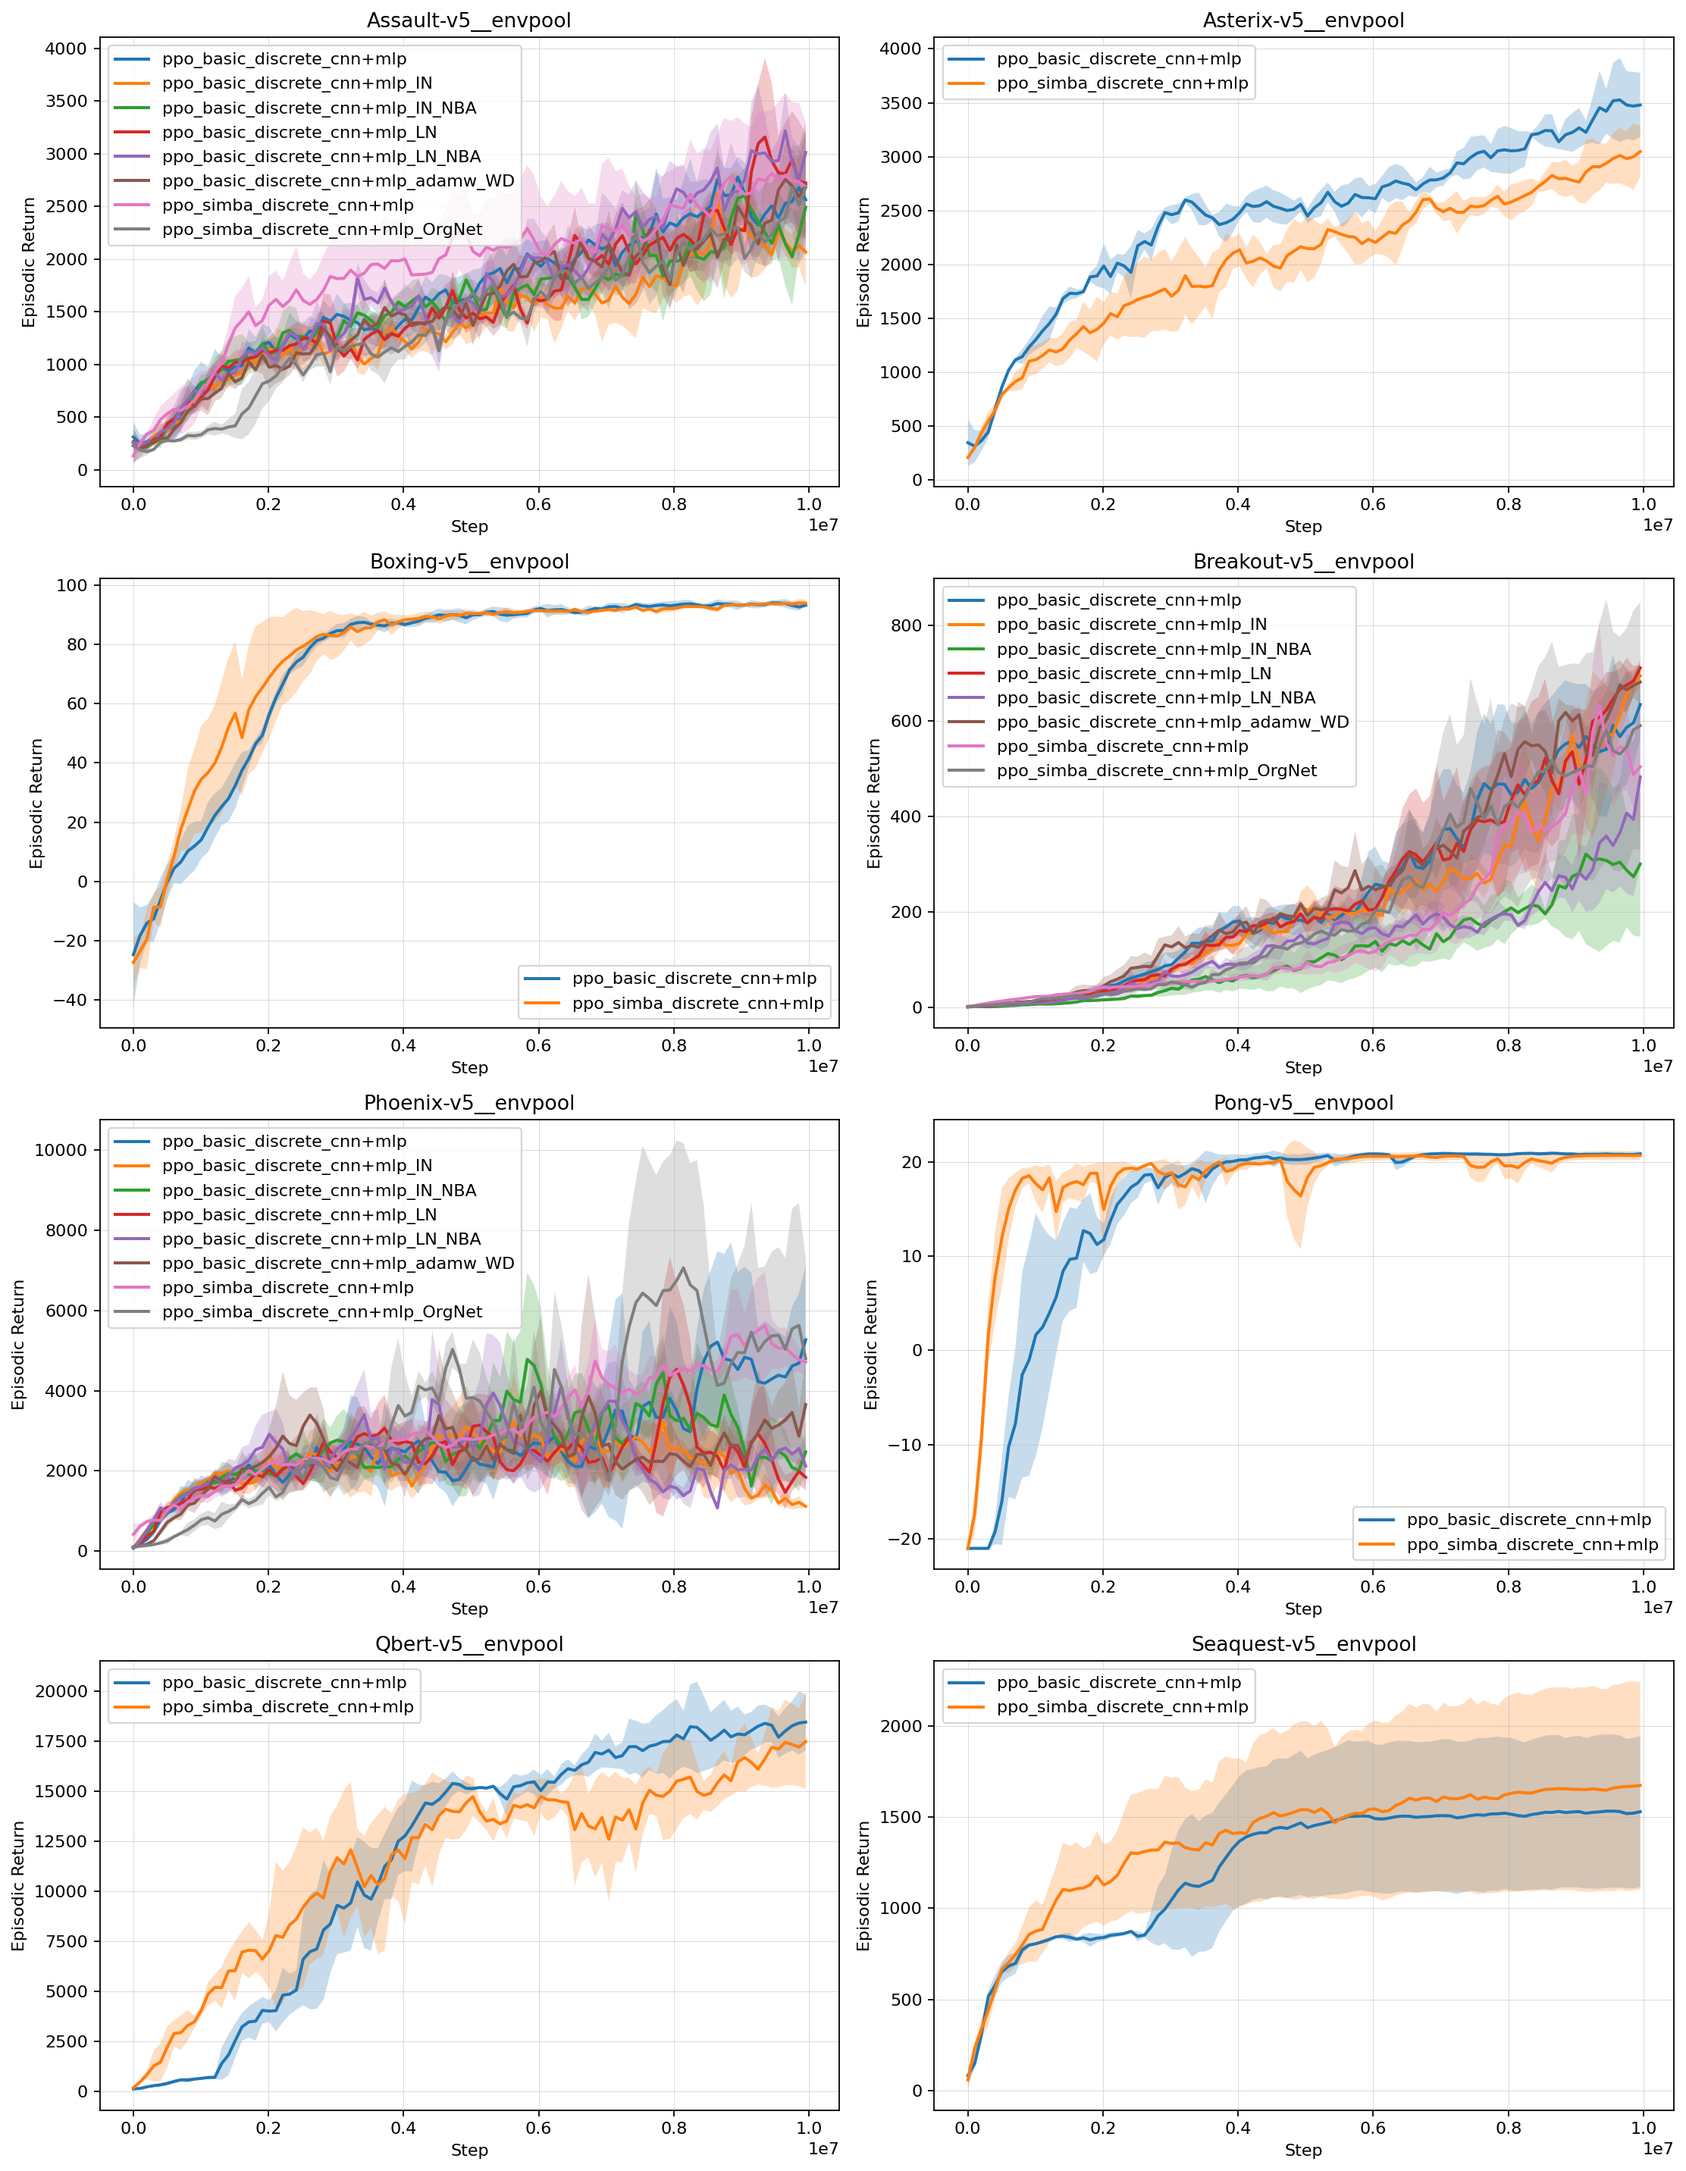
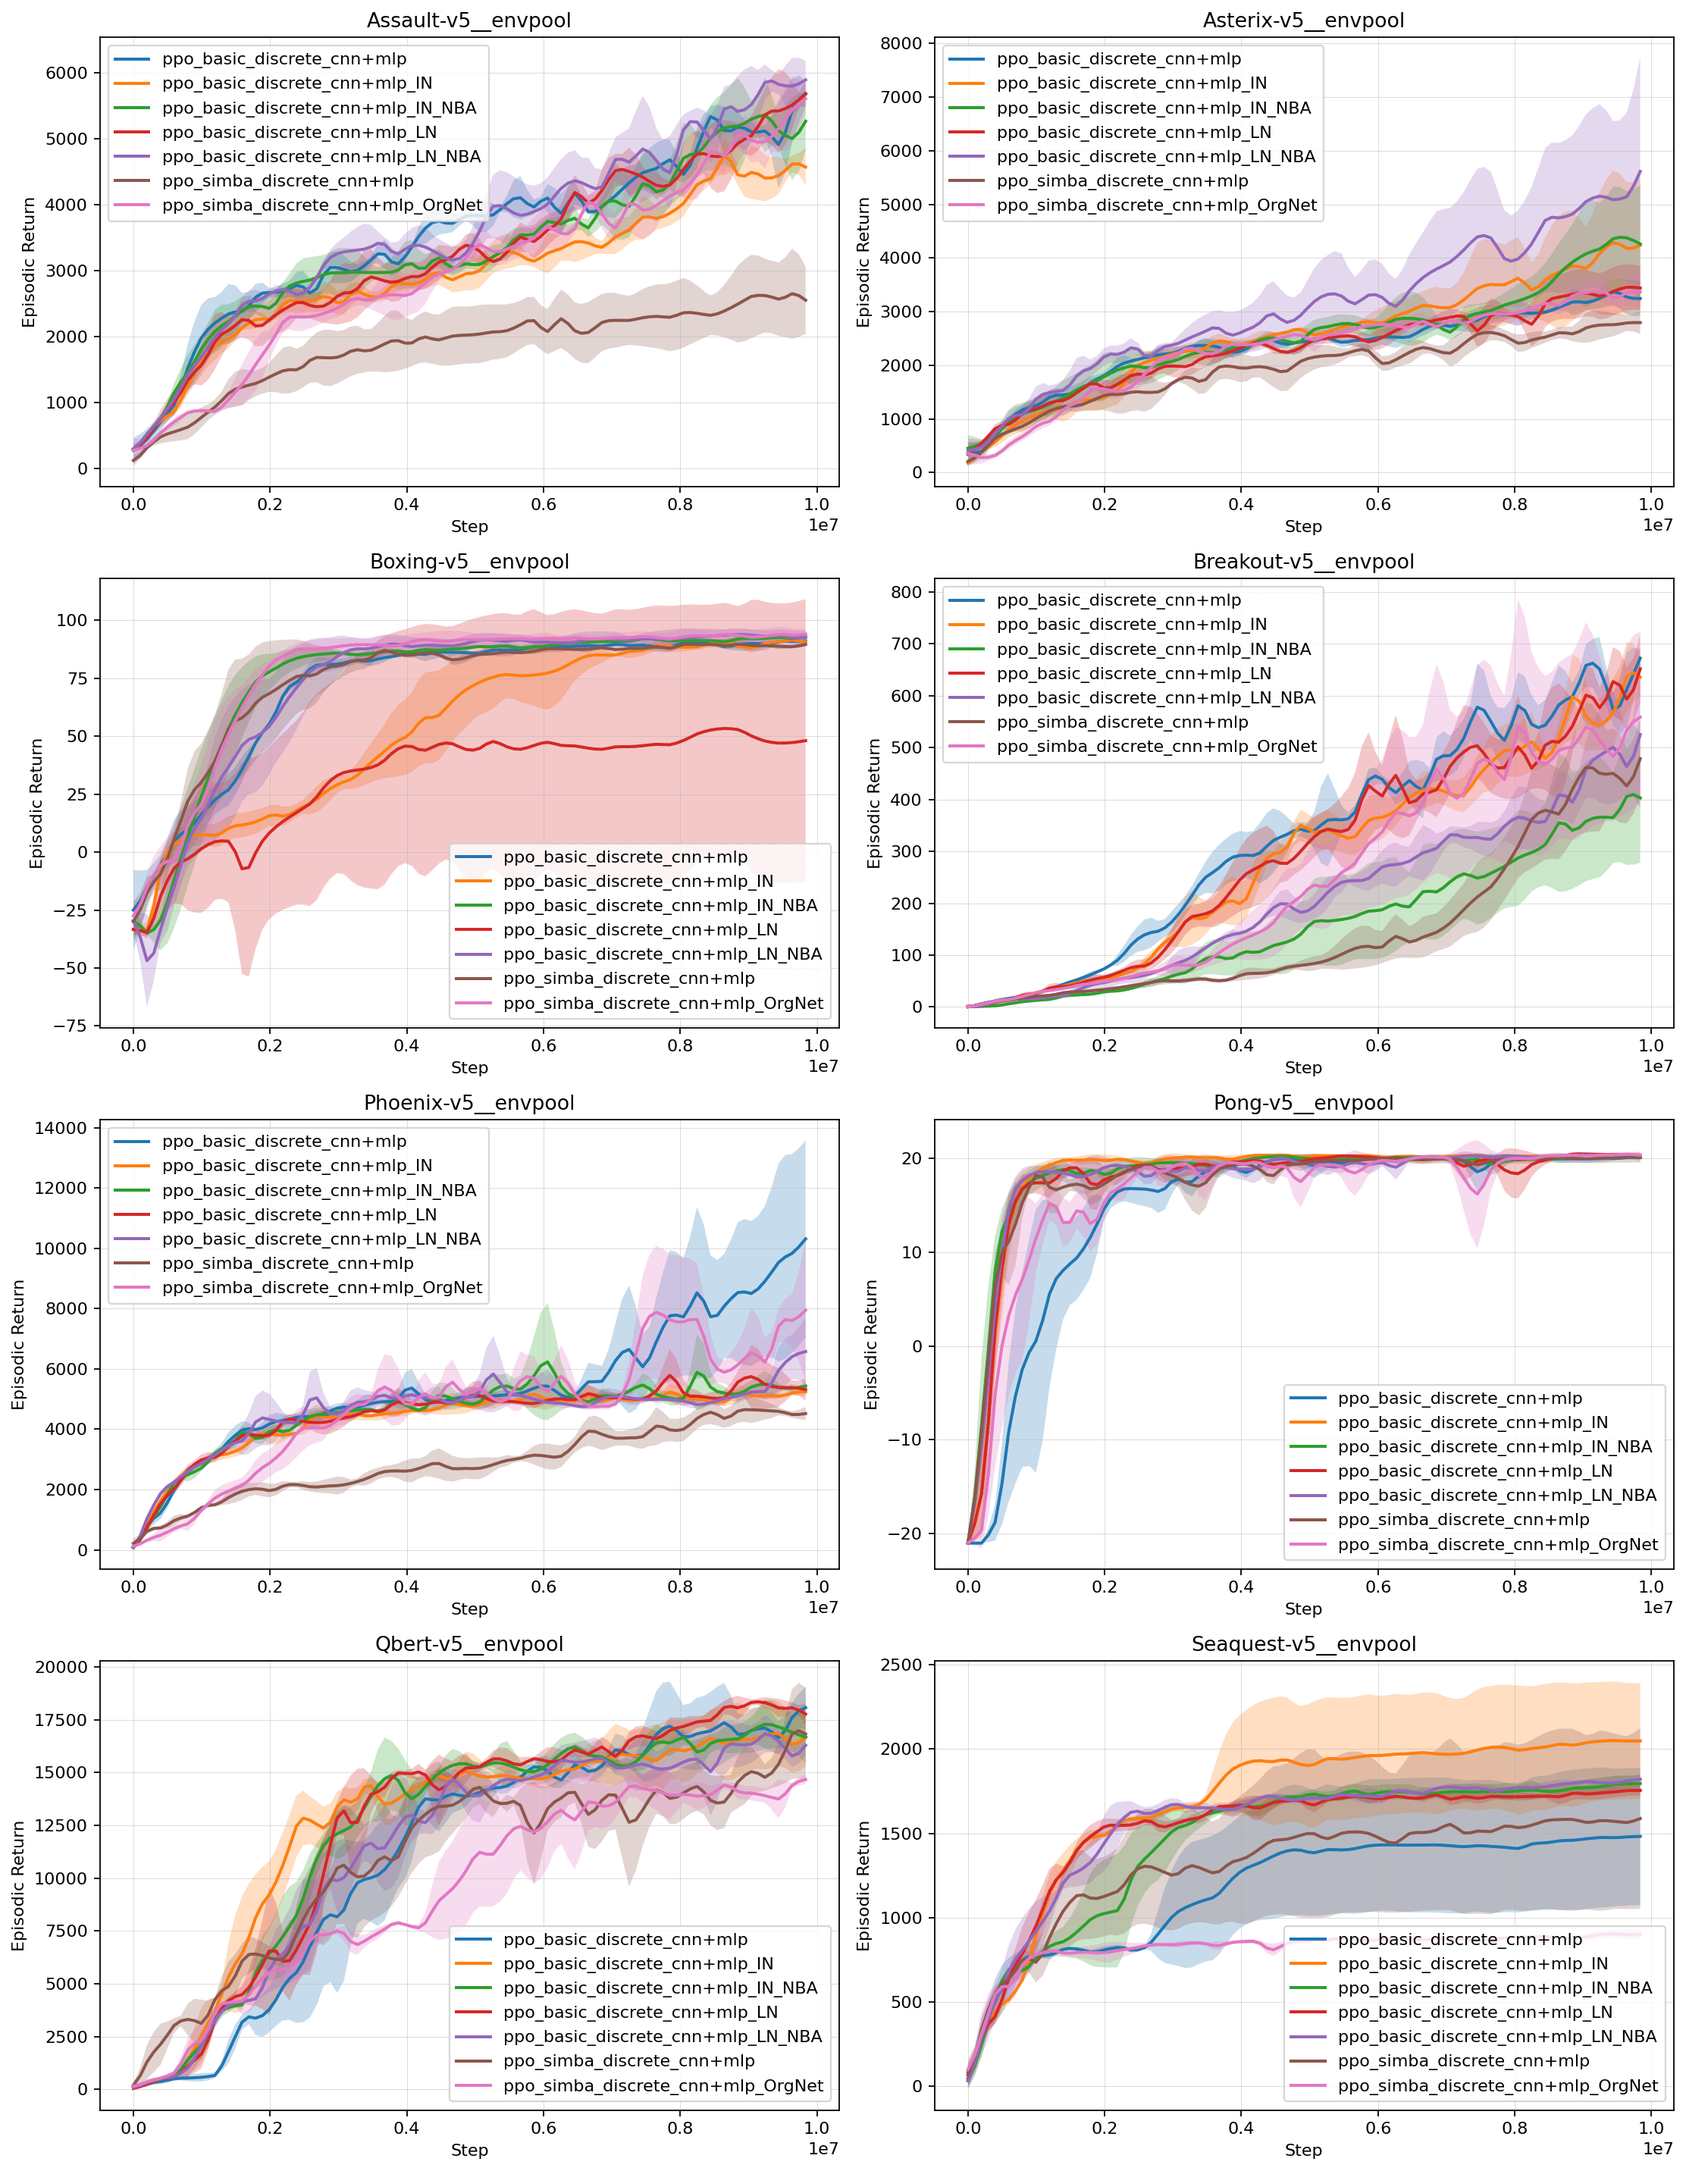
v0.2

diff --git a/katarl2/agents/common/base_agent.py b/katarl2/agents/common/base_agent.py
@@ -72,7 +72,9 @@ class BaseAgent:
         # 超出步数触发截断 envpool 的 Atari 中可能发生
         if len(episodic_returns) < total_eval_episodes:
             if 'episodic_info' in infos:
-                mask = 1 - final_info['_episode']
+                mask = np.ones_like(infos['episodic_info']['r'], dtype=bool)
+                if 'final_info' in infos:
+                    mask = 1 - infos['final_info']['_episode']
                 n = min(total_eval_episodes - len(episodic_returns), np.sum(mask))
                 episodic_returns.extend(np.sort(infos['episodic_info']['r'][mask])[-n:].tolist())
                 episodic_lens.extend(np.sort(infos['episodic_info']['l'][mask])[-n:].tolist())

diff --git a/katarl2/agents/ppo/ppo.py b/katarl2/agents/ppo/ppo.py
@@ -66,8 +66,10 @@ class PPO(BaseAgent):
             print("[INFO] Use default agent")
             self.agent = Agent(self.act_space).to(self.device)
         if cfg.optimizer == 'adam':
+            print(f"Use Adam, weight_decay={cfg.weight_decay}")
             self.optimizer = optim.Adam(self.agent.parameters(), lr=cfg.learning_rate, eps=1e-5, weight_decay=cfg.weight_decay)
         elif cfg.optimizer == 'adamw':
+            print(f"Use AdamW, weight_decay={cfg.weight_decay}")
             self.optimizer = optim.AdamW(self.agent.parameters(), lr=cfg.learning_rate, eps=1e-5, weight_decay=cfg.weight_decay)
 
         """ Buffer """

diff --git a/katarl2/agents/common/base_agent_cfg.py b/katarl2/agents/common/base_agent_cfg.py
@@ -28,7 +28,7 @@ class BaseAgentConfig:
 
     """ Logger """
     # Log every n interaction steps
-    log_per_interaction_step: int = 2000
+    log_per_interaction_step: int = 5000
 
     """ Training / Evaluating """
     # Total environment steps
@@ -36,7 +36,7 @@ class BaseAgentConfig:
     # Total agent interaction steps (Don't setup this param in CLI)
     num_interaction_steps: Any = None
     # Evaluation in learn() function
-    eval_per_interaction_step: int = 10000
+    eval_per_interaction_step: int = 25000
     # Number of evaluation episodes
     num_eval_episodes: int = 10
 

diff --git a/katarl2/agents/simba_ppo/simba_ppo.py b/katarl2/agents/simba_ppo/simba_ppo.py
@@ -86,7 +86,7 @@ class SimbaPPO(BaseAgent):
         self.env_step = 0
         self.interaction_step = 0
         self.train_step = 0
-        start_time = time.time()
+        fixed_start_time = start_time = time.time()
         last_eval_interaction_step = 0
         last_log_interaction_step = 0
         last_verbose_time = 0

diff --git a/demos/simba_ppo.py b/demos/simba_ppo.py
@@ -56,7 +56,7 @@ if __name__ == '__main__':
     """ Eval """
     print("[INFO] Start Evaluation.")
     agent = SimbaPPO.load(path_ckpt, args.agent.device)
-    args.env.num_envs = 1
+    args.env.num_eval_envs = 1
     args.env.capture_video = True
     agent.cfg.num_eval_episodes = 1
     _, eval_envs = make_envs(args.env)

diff --git a/demos/ppo.py b/demos/ppo.py
@@ -56,7 +56,7 @@ if __name__ == '__main__':
     """ Eval """
     print("[INFO] Start Evaluation.")
     agent = PPO.load(path_ckpt, args.agent.device)
-    args.env.num_envs = 1
+    args.env.num_eval_envs = 1
     args.env.capture_video = True
     agent.cfg.num_eval_episodes = 1
     _, eval_envs = make_envs(args.env)

diff --git a/benchmarks/ppo_run_experiments.py b/benchmarks/ppo_run_experiments.py
@@ -6,7 +6,7 @@ from katarl2.common.utils import cvt_string_time
 PATH_NOHUP_OUT_DIR = Path(__file__).parents[1] / "logs/runs"
 PATH_NOHUP_OUT_DIR.mkdir(parents=True, exist_ok=True)
 
-sleep_time = 6 * 3600
+sleep_time = 0
 
 # 配置任务
 tasks = [

diff --git a/benchmarks/simba_ppo_run_experiments.py b/benchmarks/simba_ppo_run_experiments.py
@@ -6,7 +6,7 @@ from katarl2.common.utils import cvt_string_time
 PATH_NOHUP_OUT_DIR = Path(__file__).parents[1] / "logs/runs"
 PATH_NOHUP_OUT_DIR.mkdir(parents=True, exist_ok=True)
 
-sleep_time = 9 * 3600
+sleep_time = 0
 
 # 配置任务
 tasks = [

diff --git a/CHANGELOG.md b/CHANGELOG.md
@@ -12,7 +12,7 @@ P.S.
 1. 由于gymnasium>1.0默认的会将VecEnv的autoreset在下一步中进行处理, 导致错误的将最后一帧状态和初始化的状态加入buff, 导致模型效果很差, 通过修改`gym.vector.SyncVectorEnv(envs_list, autoreset_mode=AutoresetMode.SAME_STEP)`修复
 2. 在环境交互速度很快且obs非常大的情况下, torch可能默认启用所有线程, 导致服务器的cpu占满, 需要通过设置`os.environ["OMP_NUM_THREADS"] = "2"; os.environ["MKL_NUM_THREADS"] = "2"`避免该问题
 
-## v0.2 (20250813 - )
+## v0.2 (20250813 - 20250817)
 1. 加入gymnaisum Atari环境
 2. 加入更高效的envpool的Atari环境
 3. 加入PPO算法, 确定和cleanrl曲线一致
@@ -20,17 +20,16 @@ P.S.
 5. 在PPO中加入Simba, 基本打平手, 4个环境上前期有提升, 后期和原版类似
 
 后续对这几个模型进行8环境3种子测试 (192个测试)：
-1. basic ppo (running)
-2. basic ppo IN (running)
-3. basic ppo LN (wait 3h)
-4. basic ppo IN-NBA (wait 3h)
-5. simba ppo LN-NBA (wait 6h)
-6. basic ppo adamW (wait 6h)
-7. simba ppo (wait 9h)
-8. simba ppo orgNet (wait 9h)
+1. basic ppo
+2. basic ppo IN
+3. basic ppo LN
+4. basic ppo IN-NBA
+5. simba ppo LN-NBA
+6. basic ppo adamW
+7. simba ppo
+8. simba ppo orgNet
+测试结果在图[ppo_basic_vs_simba_vs_diy.png](./assets/ppo_basic_vs_simba_vs_diy.png)中
 
 P.S.
 1. 由于游戏貌似可能能无限玩下去, Breakout和Phoenix发现, 因此限制最大步数为50000步
 2. 验证时, 如果固定episode次数验证且开多环境并行验证, 则总episode次数应该是eval_episode*num_eval_envs (如果总episode次数为eval_episdoe, 则环境并行方差很大)
-
-TODO:

diff --git a/README.md b/README.md
@@ -77,3 +77,9 @@ pip install -r requirements/requirements_full.txt
 ## 可能的报错
 1. `mujoco.FatalError: an OpenGL platform library has not been loaded into this process, this most likely means that a valid OpenGL context has not been created before mjr_makeContext was called`
     参考[CSDN - 关于在vscode运行mujoco报错...](https://blog.csdn.net/weixin_43807119/article/details/141814122), 设置环境变量`conda env config vars set MUJOCO_GL=egl`, 重启`conda`环境即可
+
+## 完成的实验
+### SAC vs Simba
+![sac_basic_vs_simba](./assets/sac_basic_vs_simba.png)
+### PPO vs Simba vs DIY
+![ppo_basic_vs_simba_vs_diy](./assets/ppo_basic_vs_simba_vs_diy.png)
